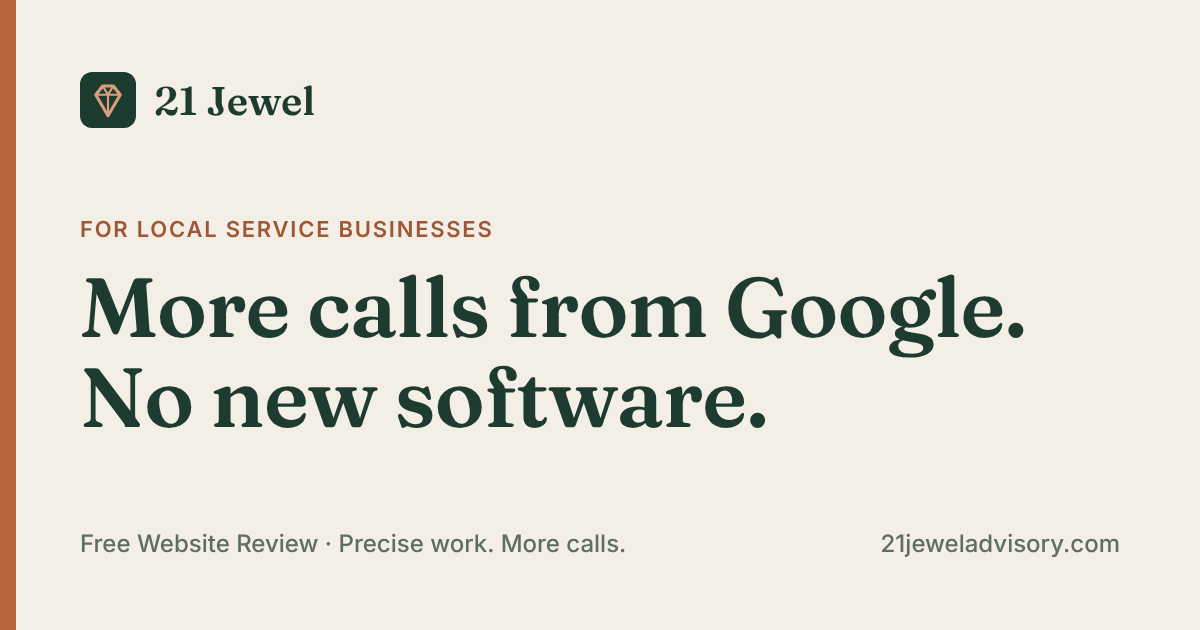
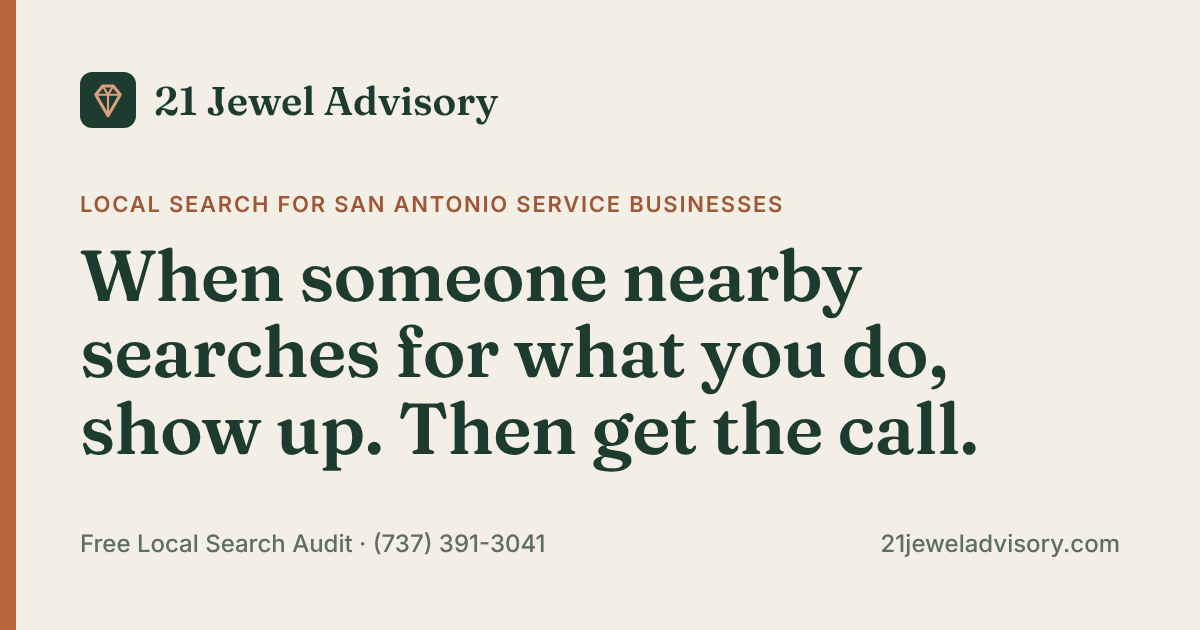
Change 03 step 8: OG image, Clarity flag, llms.txt, placeholder check, Person and OfferCatalog schema
Claude-Session: https://claude.ai/code/session_01JdBMT2dhTJEzxd9ijFKaxs

Changed region(s): [[0.0617, 0.3016, 0.8633, 0.754], [0.0925, 0.8444, 0.5242, 0.8746], [0.2775, 0.1206, 0.4317, 0.181]]

diff --git a/21-jewel/scripts/og/og.html b/21-jewel/scripts/og/og.html
@@ -8,13 +8,13 @@
   .wrap { padding: 72px 80px; display: flex; flex-direction: column; justify-content: space-between; width: 100%; box-sizing: border-box; position: relative; }
   .top { display: flex; align-items: center; gap: 18px; font-family: F; font-weight: 600; font-size: 40px; }
   .eyebrow { font-weight: 600; font-size: 22px; letter-spacing: .08em; text-transform: uppercase; color: #9F5835; margin-bottom: 20px; }
-  h1 { font-family: F; font-weight: 600; font-size: 84px; line-height: 1.06; letter-spacing: -0.01em; margin: 0; max-width: 1000px; text-wrap: balance; }
+  h1 { font-family: F; font-weight: 600; font-size: 72px; line-height: 1.06; letter-spacing: -0.01em; margin: 0; max-width: 1000px; text-wrap: balance; }
   .foot { display: flex; justify-content: space-between; font-size: 24px; color: #606D63; font-weight: 500; }
   .rule { position: absolute; left: 0; top: 0; bottom: 0; width: 16px; background: #B5643C; }
 </style></head>
 <body><div class="rule"></div><div class="wrap">
-  <div class="top"><img src="../../public/favicon.svg" width="56" height="56" alt="">21 Jewel</div>
-  <div><div class="eyebrow">For local service businesses</div>
-  <h1>More calls from Google. No new software.</h1></div>
-  <div class="foot"><span>Free Website Review · Precise work. More calls.</span><span>21jeweladvisory.com</span></div>
+  <div class="top"><img src="../../public/favicon.svg" width="56" height="56" alt="">21 Jewel Advisory</div>
+  <div><div class="eyebrow">Local search for San Antonio service businesses</div>
+  <h1>When someone nearby searches for what you do, show up. Then get the call.</h1></div>
+  <div class="foot"><span>Free Local Search Audit · (737) 391-3041</span><span>21jeweladvisory.com</span></div>
 </div></body></html>

diff --git a/21-jewel/src/pages/llms.txt.ts b/21-jewel/src/pages/llms.txt.ts
@@ -1,0 +1,33 @@
+// /llms.txt: a plain index of the site for AI crawlers (Change 03 §9, optional). Built from site.yaml titles and published guides.
+import type { APIRoute } from 'astro';
+import { doc, guides } from '../lib/content';
+
+export const GET: APIRoute = async () => {
+  const [site, inds, services, list] = await Promise.all([doc('site'), doc('industries'), doc('services'), guides()]);
+  const p = (path: string, key: string) => {
+    const s = site.seo.pages[key];
+    return s ? `- [${s.title.replace(/ · 21 Jewel Advisory$/, '')}](${site.brand.url}${path}): ${s.description}` : '';
+  };
+  const lines = [
+    `# ${site.brand.legal_name}`,
+    '',
+    `> ${site.brand.one_liner}`,
+    '',
+    `Phone: ${site.brand.phone}. Email: ${site.brand.email}. Based in ${site.brand.location}; serves San Antonio and surrounding counties first, Texas by phone and screen share.`,
+    '',
+    '## Main pages',
+    p('/', 'home'), p('/audit', 'audit'), p('/pricing', 'pricing'), p('/about', 'about'),
+    '',
+    '## Services',
+    ...services.services.map((s) => p(`/services/${s.slug}`, `service-${s.slug}`)),
+    '',
+    '## Industries',
+    ...inds.industries.map((i) => p(`/industries/${i.slug}`, i.slug)),
+    ...(list.length ? ['', '## Guides', ...list.map((g) => `- [${g.data.title}](${site.brand.url}/learn/${g.id}): ${g.data.description}`)] : []),
+    '',
+    '## Policies',
+    p('/privacy', 'privacy'),
+  ];
+  const out = lines.filter((l, i) => l !== '' || lines[i - 1] !== '').join('\n') + '\n';
+  return new Response(out, { headers: { 'Content-Type': 'text/plain; charset=utf-8' } });
+};

diff --git a/21-jewel/src/lib/analytics.ts b/21-jewel/src/lib/analytics.ts
@@ -64,6 +64,20 @@ function load() {
   s.async = true;
   s.src = `https://www.googletagmanager.com/gtag/js?id=${encodeURIComponent(GA_ID!)}`;
   document.head.append(s);
+  loadClarity();
+}
+
+// Microsoft Clarity (Change 03 §10): only when site.yaml flags.showClarity is on (html[data-clarity]) and
+// PUBLIC_CLARITY_ID is set. Same idle trigger and the same DNT/GPC gate as GA4. Inputs are masked by Clarity's default.
+const CLARITY_ID = import.meta.env.PUBLIC_CLARITY_ID as string | undefined;
+function loadClarity() {
+  if (!CLARITY_ID || document.documentElement.dataset.clarity !== '1') return;
+  const w = window as unknown as Record<string, unknown>;
+  w.clarity = w.clarity || function (...args: unknown[]) { ((w.clarity as { q?: unknown[] }).q ||= []).push(args); };
+  const s = document.createElement('script');
+  s.async = true;
+  s.src = `https://www.clarity.ms/tag/${encodeURIComponent(CLARITY_ID)}`;
+  document.head.append(s);
 }
 
 /** Track clicks on any element with data-event="name" and data-prop-*="value". */

diff --git a/21-jewel/src/lib/schema.ts b/21-jewel/src/lib/schema.ts
@@ -146,3 +146,20 @@ export function articleLd(site: SiteData, a: { path: string; title: string; desc
     speakable: { '@type': 'SpeakableSpecification', cssSelector: ['.prose > p:first-of-type'] },
   };
 }
+
+/** Person entity for /about. */
+export function personLd(site: SiteData, p: { name: string; role: string; line: string }) {
+  return {
+    '@context': 'https://schema.org',
+    '@type': 'Person',
+    '@id': new URL('/about#person', site.brand.url).href,
+    name: p.name,
+    jobTitle: p.role,
+    description: p.line,
+    url: new URL('/about', site.brand.url).href,
+    telephone: `+1-${site.brand.phone_href.slice(2, 5)}-${site.brand.phone_href.slice(5, 8)}-${site.brand.phone_href.slice(8)}`,
+    email: site.brand.email,
+    worksFor: { '@id': new URL('/#business', site.brand.url).href },
+    ...(sameAs(site).length ? { sameAs: sameAs(site) } : {}),
+  };
+}

diff --git a/21-jewel/src/content.config.ts b/21-jewel/src/content.config.ts
@@ -230,7 +230,7 @@ const pages = defineCollection({
     results: z.object({ heading: text, intro: text, empty: text, columns: z.array(text).length(4) }),
     privacy: z.object({
       heading: text, updated_label: text, intro: text, storage: text, deletion: text, deletion_suffix: text,
-      services: z.array(z.object({ name: text, body: text })),
+      services: z.array(z.object({ name: text, body: text, flag: flagName.optional() })),
     }),
     terms: z.object({
       heading: text, updated_label: text, intro: text, contact: text,

diff --git a/21-jewel/src/lib/content.ts b/21-jewel/src/lib/content.ts
@@ -43,7 +43,7 @@ export type OffersData = CollectionEntry<'offers'>['data'];
 export type Offer = OffersData['offers'][number];
 export type ScorecardContent = CollectionEntry<'scorecard'>['data'];
 
-/** True for copy still waiting on JP, like "[PRICE]" or "[CAL_LINK]". */
+/** True for copy still waiting on JP, written as an all-caps token in square brackets. */
 export const isPlaceholder = (s: string) => /^\[[A-Z0-9_ ]+\]$/.test(s.trim());
 
 /** Cal.com link, or an email fallback until the link is set. */

diff --git a/21-jewel/DECISIONS.md b/21-jewel/DECISIONS.md
@@ -2,6 +2,7 @@
 
 Judgment calls made while building Phase 1. One line each, newest first.
 
+- 2026-10-27 · **Change 03 step 8: schema, OG, headers.** OG image regenerated with variant A's headline, "21 Jewel Advisory" and the phone number. Microsoft Clarity is wired behind `flags.showClarity` plus `PUBLIC_CLARITY_ID`: it loads on the same idle trigger and under the same DNT/GPC gate as GA4, its hosts join the CSP only while the flag is on (`scripts/csp.mjs` fills `{{CLARITY_*}}` tokens), and its privacy entry renders only while the flag is on (privacy services can carry a `flag`). `/llms.txt` lists the site from `site.yaml` titles and published guides. `/learn` stays out of the sitemap until a guide is published. `npm run check` now fails on `[PLACEHOLDER`, `[PENDING JP]`, `[TBD]` and the old `[CAL_LINK]` / `[TALLY_FORM_URL]` tokens anywhere in `src/` or `dist/` (`scripts/no-placeholders.mjs`). Schema per template: home ProfessionalService + WebSite + FAQPage; pricing adds the ProfessionalService (OfferCatalog) and breadcrumbs; services and industries Service + speakable WebPage + BreadcrumbList + FAQPage; guides Article + Person; about Person + breadcrumbs.
 - 2026-10-27 · **Change 03 step 7: learn.** `/learn` hub plus `/learn/<slug>` from `src/content/learn/*.md` (frontmatter: title, description, kind guide|answer, published, updated, draft, related, faqs). All six launch guides ship with `draft: true` and never build until JP flips each one; `npm run dev:drafts` / `build:drafts` (SHOW_DRAFTS=1) preview them. While no guide is published, "Learn" is hidden from the header and footer automatically and `/learn` builds noindex with a short note, so nothing on the live site points at an empty hub. Article template: breadcrumb, kind and read time, H1, updated date, body (first paragraph is the answer-first opener and the speakable target), author box (monogram until a photo exists), related links (titles resolved from the guides, services and industries), FAQ from frontmatter, closing CTA. Schema: Article + Person, BreadcrumbList, FAQPage. `learn_read` fires at 50% and 90% of the article. Titles and descriptions come from frontmatter (`Base.astro` now accepts a `seo` override). Dates render in UTC so a `2026-10-27` frontmatter date doesn't show as the 26th in Central time.
 - 2026-10-27 · **Change 03 step 6: audit.** `/review` is now `/audit` (301s for `/review` and `/thanks/review`). The form stays native (Cloudflare Function → Turnstile → Google Sheet + Gmail), not Tally, because that path already existed and keeps the page on-brand with no third-party embed. Seven visible fields: business, what you do, city or ZIP, website (optional, "no website yet"), email, phone (optional), what's going on (5 chips), plus an optional "how did you hear about me". Hidden: honeypot, Turnstile, hero variant, the page the form was on, and `utm_*` captured from the landing URL into `sessionStorage` by `analytics.ts`. `/api/audit` returns an id; `/thanks/audit?s=<id>` fires `audit_submit` once per id and carries the Cal.com link (booking lives there and on `/about` only). The Apps Script gains an `Audits` tab with Status / Delivered on / Last touch / Next touch, a confirmation email, an alert that tells JP what to do next, and a daily 9am Central `followUps_` trigger: day-5 reminder to JP while `new`, day-12 and day-30 emails to the lead while `delivered`, nothing otherwise (`docs/follow-up-emails.md`). GA4 events renamed per Change 03 §10 (`audit_start`, `audit_submit`, `audit_error`, `scroll_depth` at 25/50/75/90, `pricing_view`, `learn_read`). On phones the audit page shows H1 → form → details; on desktop the form sits in the right column. Brand one-liner and tagline updated to the Get found / Get chosen / Get the call frame; home title and description rewritten.
 - 2026-10-27 · **Change 03 step 5: industries.** Six pages (sign and print, roofing, plumbing, electrical, remodeling, landscaping and tree service), all built and indexed. The template grew from hero → searches → fixes → proof to: breadcrumb → answer-first hero with phone and trust chips → 8 real search phrasings → three "what usually breaks" cards specific to the trade → three "what I fix first" rows that link to the matching service page → a day-0 / day-90 table labeled "Example, not a client" until `flags.realExamples` is true → optional proof line → 5 FAQs from `faqs.yaml` → closing CTA. Schema: Service (serviceType "Local search marketing"), speakable WebPage, BreadcrumbList, FAQPage. Titles follow "Local search for San Antonio [trade] · 21 Jewel Advisory". The sign-print proof line still reads "Case study in progress" pending Taylor'd Prints' permission (TODO-JP). Example numbers are illustrative ranges typical of a fixed profile, not forecasts; the note under each table says so.
